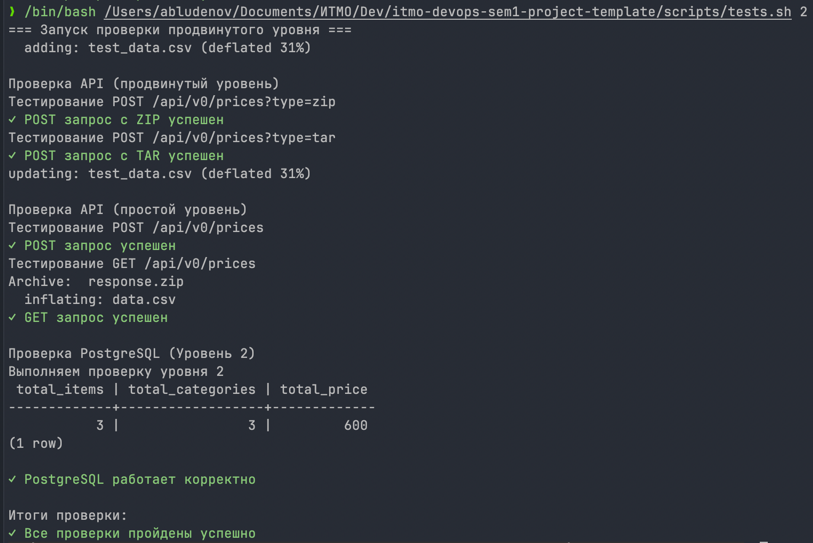
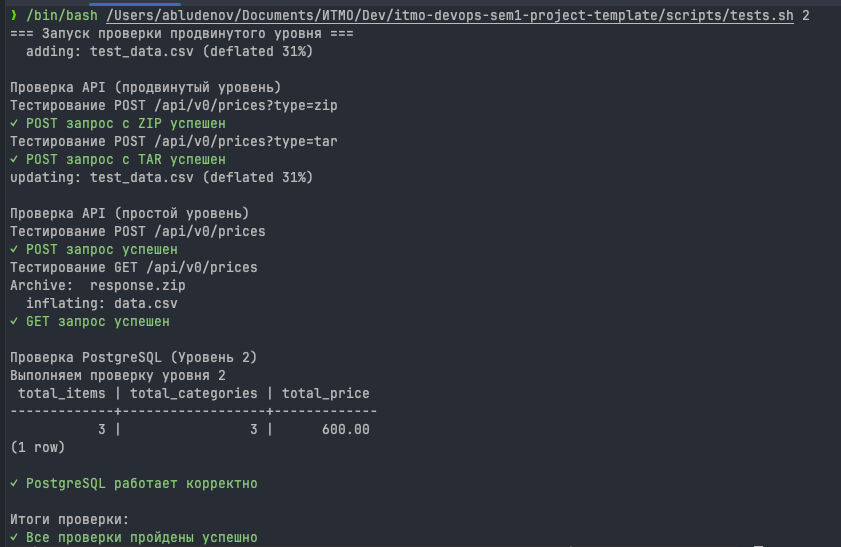
feat(): fix after review

diff --git a/internal/repository/prices/insert_batch_tx.go b/internal/repository/prices/insert_batch_tx.go
@@ -1,0 +1,69 @@
+package prices
+
+import (
+	"context"
+	"project_sem/internal/model"
+)
+
+func (r *repository) InsertBatchTx(ctx context.Context, prices []model.Price) (result model.InsertResult, err error) {
+	tx, err := r.db.Conn().BeginTx(ctx, nil)
+	if err != nil {
+		return model.InsertResult{}, err
+	}
+
+	defer func() {
+		if err != nil {
+			_ = tx.Rollback()
+		}
+	}()
+
+	var dupCount int64
+
+	stmt, err := tx.PrepareContext(ctx, `
+        INSERT INTO prices (name, category, price, create_date)
+        VALUES ($1, $2, $3, $4)
+        ON CONFLICT (name, category, price, create_date) DO NOTHING
+    `)
+	if err != nil {
+		return model.InsertResult{}, err
+	}
+	defer stmt.Close()
+
+	for _, p := range prices {
+		res, errExec := stmt.ExecContext(ctx, p.Name, p.Category, p.Price, p.CreateDate)
+		if errExec != nil {
+			err = errExec
+			return model.InsertResult{}, err
+		}
+
+		affected, errRows := res.RowsAffected()
+		if errRows != nil {
+			err = errRows
+			return model.InsertResult{}, err
+		}
+		if affected == 0 {
+			dupCount++
+		}
+	}
+
+	var summary model.PriceSummary
+	err = tx.QueryRowContext(ctx, `
+        SELECT 
+            COUNT(*)                AS total_items,
+            COUNT(DISTINCT category) AS total_categories,
+            COALESCE(SUM(price), 0) AS total_price
+        FROM prices
+    `).Scan(&summary.TotalItems, &summary.TotalCategories, &summary.TotalPrice)
+	if err != nil {
+		return model.InsertResult{}, err
+	}
+
+	if err = tx.Commit(); err != nil {
+		return model.InsertResult{}, err
+	}
+
+	return model.InsertResult{
+		DuplicatesCount: dupCount,
+		Summary:         summary,
+	}, nil
+}

diff --git a/internal/api/prices/v0/upload_prices.go b/internal/api/prices/v0/upload_prices.go
@@ -7,11 +7,11 @@ import (
 )
 
 type UploadPricesResponse struct {
-	TotalCount      int64 `json:"total_count"`
-	DuplicatesCount int64 `json:"duplicates_count"`
-	TotalItems      int64 `json:"total_items"`
-	TotalCategories int64 `json:"total_categories"`
-	TotalPrice      int64 `json:"total_price"`
+	TotalCount      int64   `json:"total_count"`
+	DuplicatesCount int64   `json:"duplicates_count"`
+	TotalItems      int64   `json:"total_items"`
+	TotalCategories int64   `json:"total_categories"`
+	TotalPrice      float64 `json:"total_price"`
 }
 
 func (a *api) UploadPrices(w http.ResponseWriter, r *http.Request) {
@@ -31,13 +31,20 @@ func (a *api) UploadPrices(w http.ResponseWriter, r *http.Request) {
 		return
 	}
 
-	file, _, err := r.FormFile("file")
+	file, header, err := r.FormFile("file")
 	if err != nil {
 		log.Printf("failed to get file from form: %v", err)
 		http.Error(w, "file not found in request", http.StatusBadRequest)
 		return
 	}
 	defer file.Close()
+
+	const maxFileSize = 32 << 20
+	if header.Size > maxFileSize {
+		log.Printf("file too large: %d bytes (max: %d bytes)", header.Size, maxFileSize)
+		http.Error(w, "file too large: maximum size is 30 MB", http.StatusRequestEntityTooLarge)
+		return
+	}
 
 	result, err := a.pricesService.ProcessUpload(r.Context(), file, archiveType)
 	if err != nil {

diff --git a/internal/service/prices/process_upload.go b/internal/service/prices/process_upload.go
@@ -20,19 +20,14 @@ func (s *service) ProcessUpload(ctx context.Context, archiveData io.Reader, arch
 		return def.UploadResult{}, fmt.Errorf("failed to extract archive: %w", err)
 	}
 
-	_, duplicated, err := s.pricesRepository.InsertBatch(ctx, prices)
+	result, err := s.pricesRepository.InsertBatchTx(ctx, prices)
 	if err != nil {
-		return def.UploadResult{}, fmt.Errorf("failed to insert prices: %w", err)
-	}
-
-	summary, err := s.pricesRepository.GetSummary(ctx)
-	if err != nil {
-		return def.UploadResult{}, fmt.Errorf("failed to get summary: %w", err)
+		return def.UploadResult{}, fmt.Errorf("failed to insert batch: %w", err)
 	}
 
 	return def.UploadResult{
 		TotalCount:      totalCount,
-		DuplicatesCount: duplicated,
-		Summary:         summary,
+		DuplicatesCount: result.DuplicatesCount,
+		Summary:         result.Summary,
 	}, nil
 }

diff --git a/cmd/server/main.go b/cmd/server/main.go
@@ -69,14 +69,14 @@ func run() error {
 	defer stop()
 
 	go func() {
-		log.Printf("🚀 REST API server listening on port %s\n", port)
+		log.Printf("REST API server listening on port %s\n", port)
 		if err := srv.ListenAndServe(); err != nil && err != http.ErrServerClosed {
 			log.Printf("failed to serve: %v\n", err)
 		}
 	}()
 
 	<-ctx.Done()
-	log.Println("🛑 Shutting down REST API server...")
+	log.Println("Shutting down REST API server...")
 
 	shutdownCtx, cancel := context.WithTimeout(context.Background(), 15*time.Second)
 	defer cancel()
@@ -85,7 +85,7 @@ func run() error {
 		log.Printf("Server forced to shutdown: %v\n", err)
 	}
 
-	log.Println("✅ Server stopped")
+	log.Println("Server stopped")
 	return nil
 }
 

diff --git a/internal/service/prices/process_download.go b/internal/service/prices/process_download.go
@@ -31,7 +31,7 @@ func (s *service) ProcessDownload(ctx context.Context, startDate, endDate, minPr
 	}
 
 	if minPrice != "" {
-		min, err := strconv.ParseInt(minPrice, 10, 64)
+		min, err := strconv.ParseFloat(minPrice, 64)
 		if err != nil {
 			return nil, fmt.Errorf("invalid min price format: %w", err)
 		}
@@ -42,7 +42,7 @@ func (s *service) ProcessDownload(ctx context.Context, startDate, endDate, minPr
 	}
 
 	if maxPrice != "" {
-		max, err := strconv.ParseInt(maxPrice, 10, 64)
+		max, err := strconv.ParseFloat(maxPrice, 64)
 		if err != nil {
 			return nil, fmt.Errorf("invalid max price format: %w", err)
 		}

diff --git a/internal/repository/prices/get_summary.go b/internal/repository/prices/get_summary.go
@@ -8,7 +8,6 @@ import (
 func (r *repository) GetSummary(ctx context.Context) (model.PriceSummary, error) {
 	query := `
 		SELECT
-			COUNT(*) as total_items,
 			COUNT(DISTINCT category) as total_categories,
 			COALESCE(SUM(price), 0) as total_price
 		FROM prices
@@ -16,7 +15,6 @@ func (r *repository) GetSummary(ctx context.Context) (model.PriceSummary, error)
 
 	var summary model.PriceSummary
 	err := r.db.Conn().QueryRowContext(ctx, query).Scan(
-		&summary.TotalItems,
 		&summary.TotalCategories,
 		&summary.TotalPrice,
 	)

diff --git a/internal/archive/zip.go b/internal/archive/zip.go
@@ -104,7 +104,7 @@ func parseCSV(r io.Reader) ([]model.Price, int64, error) {
 			continue
 		}
 
-		price, err := strconv.ParseInt(record[3], 10, 64)
+		price, err := strconv.ParseFloat(record[3], 64)
 		if err != nil || price <= 0 {
 			continue
 		}
@@ -138,7 +138,7 @@ func writeCSV(w io.Writer, prices []model.Price) error {
 			strconv.FormatInt(p.ID, 10),
 			p.Name,
 			p.Category,
-			strconv.FormatInt(p.Price, 10),
+			strconv.FormatFloat(p.Price, 'f', 2, 64),
 			p.CreateDate.Format("2006-01-02"),
 		}
 

diff --git a/internal/repository/repository.go b/internal/repository/repository.go
@@ -6,7 +6,7 @@ import (
 )
 
 type PricesRepository interface {
-	InsertBatch(ctx context.Context, prices []model.Price) (inserted int64, duplicated int64, err error)
+	InsertBatchTx(ctx context.Context, prices []model.Price) (model.InsertResult, error)
 	GetSummary(ctx context.Context) (model.PriceSummary, error)
 	FindByFilter(ctx context.Context, filter model.Filter) ([]model.Price, error)
 }

diff --git a/internal/model/filter.go b/internal/model/filter.go
@@ -5,6 +5,6 @@ import "time"
 type Filter struct {
 	StartDate time.Time
 	EndDate   time.Time
-	MinPrice  int64
-	MaxPrice  int64
+	MinPrice  float64
+	MaxPrice  float64
 }

diff --git a/internal/model/price.go b/internal/model/price.go
@@ -6,6 +6,6 @@ type Price struct {
 	ID         int64
 	Name       string
 	Category   string
-	Price      int64
+	Price      float64
 	CreateDate time.Time
 }

diff --git a/internal/model/price_summary.go b/internal/model/price_summary.go
@@ -3,5 +3,5 @@ package model
 type PriceSummary struct {
 	TotalItems      int64
 	TotalCategories int64
-	TotalPrice      int64
+	TotalPrice      float64
 }

diff --git a/internal/model/insert_result.go b/internal/model/insert_result.go
@@ -1,0 +1,6 @@
+package model
+
+type InsertResult struct {
+	DuplicatesCount int64
+	Summary         PriceSummary
+}
